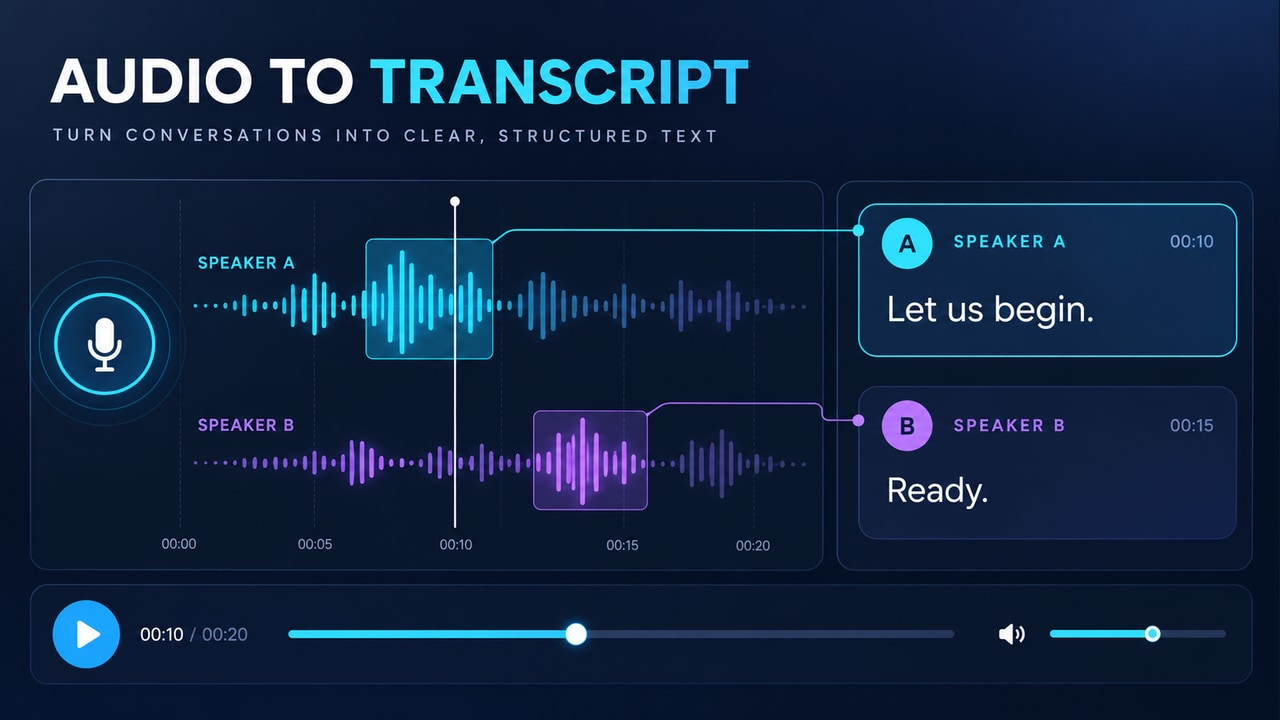
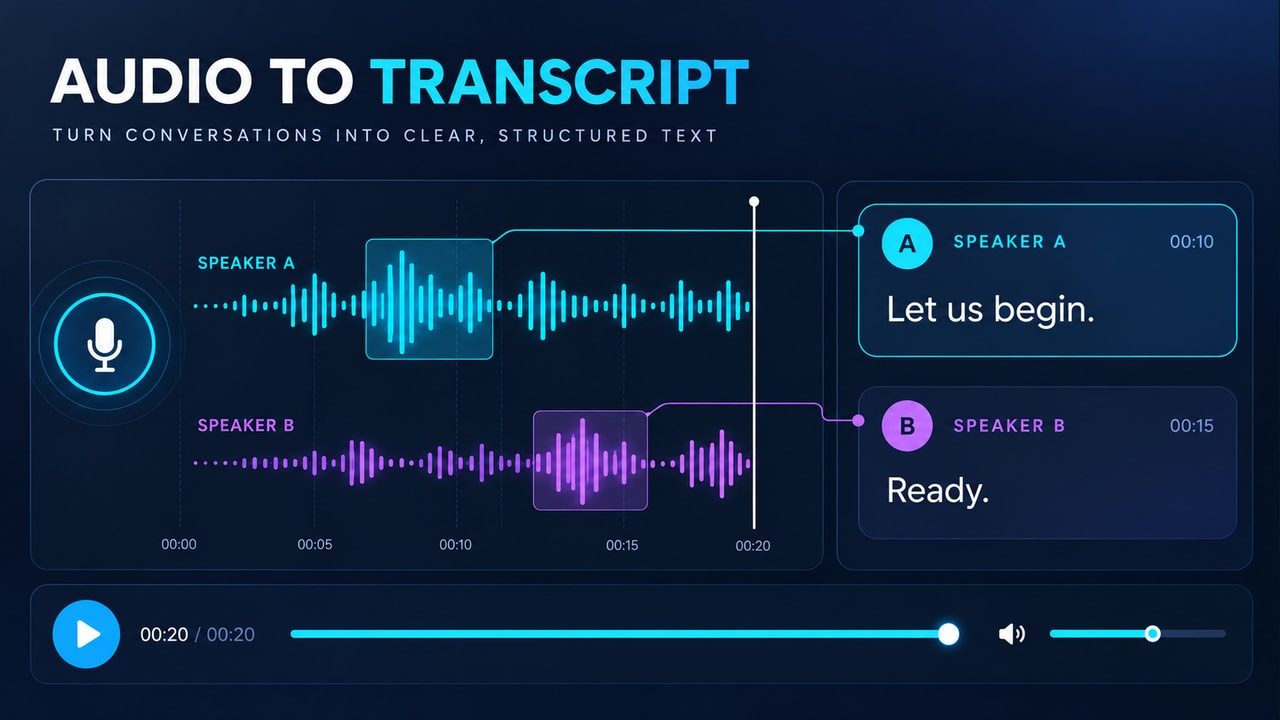
Complete transcription clip timeline and synchronize progress

diff --git a/creative/firefly-demo-pairs-v3/IMAGE_PROMPTS.md b/creative/firefly-demo-pairs-v3/IMAGE_PROMPTS.md
@@ -1,6 +1,6 @@
 # Procedencia y prompts de imagen
 
-Herramienta: image_gen integrada, en modo edición con referencia. Se generaron 13 estados iniciales y dos finales nuevos: sonrisa e identidad con landmarks internos; los otros 11 finales reutilizan los visuales v2 existentes. Los archivos se exportan a 1280×720 sin recorte. No son capturas reales del producto ni evidencia de resultados comerciales.
+Herramienta: image_gen integrada, en modo edición con referencia. Se generaron 13 estados iniciales y tres finales nuevos: sonrisa, identidad con landmarks internos y transcripción completada; los otros 10 finales reutilizan los visuales v2 existentes. Los archivos se exportan a 1280×720 sin recorte. No son capturas reales del producto ni evidencia de resultados comerciales.
 
 
 ## sitechatbot — START
@@ -39,7 +39,7 @@ Use case: precise-object-edit. Edit target: the supplied existing final frame of
 END: reutiliza el final v2 sin regenerarlo; su procedencia original figura en manifest.json.
 
 
-## speech — START
+## speech — START histórico v3 (sustituido por revisión 3.2)
 
 Referencia: `speech/first-frame-v2.jpg` del kit anterior.
 
@@ -48,7 +48,7 @@ Use case: precise-object-edit. Edit target: the supplied existing final frame of
 ```
 
 
-END: reutiliza el final v2 sin regenerarlo; su procedencia original figura en manifest.json.
+START y END vigentes: ediciones 3.2 descritas al final de este documento.
 
 
 ## langchain — START
@@ -168,4 +168,16 @@ Sustituye el final v2 reutilizado por esta edición nueva con landmarks internos
 
 ```text
 Use case: precise-object-edit, identity-preserve. Edit target: supplied FACE COMPARISON final-frame image. Replace the inadequate contour-only facial annotations with anatomically placed INTERNAL facial landmarks and restrained geometric distance guides on BOTH faces. Preserve the exact same fictional adult man's identity, facial expression, skin texture, hair, eyes, clothing, portrait sizes/positions, card borders, navy background, full 16:9 composition, heading FACE COMPARISON, center check/MATCH, bottom SELFIE and REFERENCE labels and all other interface artwork. Overlay only fine cyan points and thin connecting segments attached accurately to: inner/outer eye corners, eyelid curves, eyebrows, nose bridge, nose tip and nostril edges, lip outline/mouth corners, cheek anchors and jaw/chin. Include a small coherent triangular landmark network across the INSIDE of each face; do not merely outline the face or draw random triangles on the hair/background. Make the eyes, nose and mouth clearly readable beneath the delicate graphics. Add three thin warm-amber measurement guides with tiny endpoint ticks on each face: between eye-center anchor points, nose tip down to the upper-lip center, and across the mouth corners. These guides must sit directly on the correct anatomy and correspond across both portraits. No numerical distances, millimeters, percentages, confidence values, extra letters or labels. Keep a very faint facial boundary if needed but INTERNAL features and their relative geometry are the visual focus. Professional, precise and restrained: no laser light, heavy glow, scan band, obscuring thick lines, moving subjects or extra panels. The photo and UI must remain unchanged; only the facial overlay is replaced. One single full-frame END image, no diptych.
+```
+
+## speech — START revisión 3.2
+
+```text
+Use case: precise-object-edit. Edit target: supplied AUDIO TO TRANSCRIPT START-frame interface. Preserve exact 16:9 full composition, navy background, title/subtitle, microphone, panels, SPEAKER A/B labels, empty transcript card bodies and bottom controls. Correct it to a TRUE ZERO state. Bottom elapsed/total text must read EXACTLY '00:00 / 00:20', same font and location. Bottom seek bar from its left origin to its right endpoint is completely unfilled/subdued; white knob at the LEFTMOST start. Add a fine white vertical playback cursor aligned EXACTLY with the chart's existing 00:00 tick, spanning both waveform lanes. It must NOT be at 00:10. Replace the two source waveform PEAKS with thin subdued horizontal cyan and purple centerlines extending only from the 00:00 tick to the 00:20 tick; no sampled peaks have been processed yet. Keep speaker labels, axes, timeline tick labels 00:00 00:05 00:10 00:15 00:20, all panel geometry, microphone and typography unchanged. No selected-segment rectangles, transcript phrases, result connectors or utterance timestamps yet. Do not move or stretch any panel or change the volume control. One single full frame, no diptych. This begins an illustrative audio-processing progress sequence.
+```
+
+## speech — END revisión 3.2
+
+```text
+Use case: precise-object-edit. Edit target: supplied AUDIO TO TRANSCRIPT END-frame interface. Correct the playback/completion state while preserving the exact title/subtitle, all panels, microphone, speaker labels, transcript words 'Let us begin.' and 'Ready.', their valid UTTERANCE timestamps 00:10 and 00:15, all card positions, static selected segments and their connectors, and full 16:9 composition. Bottom elapsed/total timer MUST read EXACTLY '00:20 / 00:20', same location and font. Fill the ENTIRE existing bottom seek bar cyan from its original left origin to its original right endpoint, and move its white circular knob to that RIGHTMOST endpoint (not the volume slider). Move the fine WHITE vertical playback cursor and its small white top dot from the chart's 00:10 position to align EXACTLY above the existing 00:20 chart tick, spanning BOTH waveform lanes. Completely remove the old middle cursor at 00:10; there must be exactly one playback cursor. Keep axes/tick labels at the same coordinates. Make both cyan and purple waveform tracks fully processed: preserve the existing waveform structure/peaks before 00:20, with all completed bars clearly visible in each speaker's color, and no future/dim waveforms to the right of the 00:20 cursor. Cleanly remove any waveform dots or bars beyond that 00:20 chart tick, restoring navy background there. Do not slide the waveform or utterance selection boxes along with the cursor: those segments stay attached to the original 10s/15s source ranges. The final state must unmistakably show finished audio and completed attributed transcript. Bottom play icon may remain the same for replay. Do not add numbers, badges or new transcript words. One single full-frame END image, not a diptych.
 ```

diff --git a/creative/firefly-demo-pairs-v3/PROMPTS.md b/creative/firefly-demo-pairs-v3/PROMPTS.md
@@ -38,12 +38,18 @@ Create an eight-second, silent, single-shot conceptual demo using BOTH supplied 
 
 ## speech — Actas de reuniones y llamadas automáticas
 
-Audio disponible, transcripción vacía → Texto atribuido a cada hablante.
+00:00 con progreso vacío → 00:20 con audio y transcripción completados.
 
 ```text
-Create an eight-second, silent, single-shot conceptual demo using BOTH supplied reference frames: START is the exact initial state and END is the target completed state. Use the same locked 16:9 composition throughout. All explanation, UI graphics, tracking, labels and results belong inside the MP4; no external webpage overlay will be added. Animate the specific state changes below. Do not simply crossfade the whole first picture into the last picture. Keep the unchanged background, panel borders, typography, icons, source data and subjects stable; only the specified UI outputs or expression may change. No camera pan, zoom, crop, cut, new text, extra objects, invented results or ambient effects. Where words appear, reveal complete prewritten stable blocks from END rather than inventing or morphing letters. Reach the completed state by six seconds and hold it still through eight seconds.
+Create an eight-second silent conceptual audio-to-transcript demonstration using BOTH supplied frames: START is the true zero state; END is fully completed playback. Same locked full 16:9 interface, no crop, cuts, zoom, panel movement or whole-image crossfade. All graphics, waveforms, text and progress are rendered inside the video; no external website overlay. This is an ACCELERATED illustrative preview of a twenty-second sample recording, not twenty seconds of real-time playback and not a measured transcription-speed claim.
 
-0-1s: establish the START frame with two waveforms and empty speaker cards. 1-3s: draw a transparent selection rectangle over the existing cyan speaker-A segment, without changing waveform geometry; introduce "Let us begin." into the SPEAKER A card as one complete stable phrase, along with the END-frame sample timestamp. 3-5s: similarly reveal the existing purple selected segment, its connector, and "Ready." in SPEAKER B with its corresponding timestamp. 5-6s: settle the remaining playhead and controls at the exact END-frame state. 6-8s: hold the END frame. These are sample-recording timeline labels, not elapsed time of this eight-second clip; do not animate or rewrite the timestamp digits. The MP4 is silent and conceptually illustrates transcription, not audible speech.
+SYNCHRONIZATION CONTRACT: The single vertical chart cursor, bottom seek knob, cyan seek-bar fill, elapsed timer and processed-waveform region represent ONE shared source time. From video t=1 to t=6 seconds, advance source time uniformly from 00:00 to 00:20. Use the same normalized progress fraction for both controls even though their tracks have different widths. The vertical cursor is constrained between the chart's existing 00:00 and 00:20 ticks. The bottom knob is constrained between the original seek-track left and right endpoints. Never confuse the seek bar with the separate volume slider. No backwards jumps or resets.
+
+0-1s: hold START: exact bottom text 00:00 / 00:20, seek knob at left, no seek fill, one white vertical cursor on the chart's 00:00 tick, two quiet speaker-lane baselines and empty transcript bodies.
+1-6s: continuously advance cursor and seek knob LEFT TO RIGHT in sync. Fill the seek bar behind its knob. Update elapsed digits monotonically in whole source seconds from 00:00 through 00:20; total stays / 00:20. Keep all timeline axis labels fixed. As the cursor passes each location, construct the END frame's waveform there, growing individual speaker-colored bars out of their own lane centerlines. Only newly revealed bars next to the active cursor may flex subtly; previously processed bars settle into the END-frame recorded shape and remain stationary. Nothing appears ahead of the cursor. Preserve cyan speaker A / purple speaker B; no moving whole waveform, random reshaping of history or unrelated spectrum.
+At source time 00:10 (video t=3.5s), finish the existing cyan selected source region and reveal its fixed connector plus SPEAKER A phrase Let us begin. with its UTTERANCE timestamp 00:10. At source time 00:15 (video t=4.75s), reveal the corresponding purple selected region, fixed connector and SPEAKER B phrase Ready. with its UTTERANCE timestamp 00:15. Those two utterance timestamps remain 00:10 and 00:15; they are NOT the elapsed playback timer. Reveal each phrase as an intact readable block, no invented words.
+At video t=6s reach END exactly: bottom text 00:20 / 00:20, seek fill 100%, bottom knob at the far right of its track, single vertical white cursor aligned to the CHART 00:20 tick, both waveform lanes completed only up to that tick, both attributed transcript phrases visible. No waveform extends beyond source time 00:20. Remove the previous 00:10 playback cursor; exactly one cursor exists.
+6-8s: hold the completed END state completely still. Do not loop, continue the timer, reset to half progress, move the utterance selections with the cursor, alter transcript timestamps, add words or change title/axes/panel geometry. The clip remains silent. Reject the result if any timer, cursor, fill or waveform progress disagrees with the shared source time.
 ```
 
 

diff --git a/creative/firefly-demo-pairs-v3/README.md b/creative/firefly-demo-pairs-v3/README.md
@@ -1,6 +1,6 @@
-# Firefly — 13 parejas de frames v3.1
+# Firefly — 13 parejas de frames v3.2
 
-Este paquete sustituye el flujo de una sola imagen inicial por **13 parejas completas: 26 JPG y 13 prompts de transición**. Se generaron 13 inicios nuevos a partir de los visuales existentes y dos finales nuevos: sonrisa y landmarks internos de identidad. Los otros 11 finales reutilizan los visuales v2: no se afirma que los 26 sean generaciones nuevas.
+Este paquete sustituye el flujo de una sola imagen inicial por **13 parejas completas: 26 JPG y 13 prompts de transición**. Se generaron 13 inicios nuevos a partir de los visuales existentes y tres finales nuevos: sonrisa, landmarks internos de identidad y transcripción completada. Los otros 10 finales reutilizan los visuales v2: no se afirma que los 26 sean generaciones nuevas.
 
 Cada carpeta contiene **start.jpg**, **end.jpg**, **firefly-prompt.txt** y README.md. Los nombres y la estructura son iguales para todos los casos.
 
@@ -17,7 +17,7 @@ Adobe documenta First/Last para Veo 3.1 y especifica 16:9 y ocho segundos para r
 
 ## Qué debe animarse
 
-El chatbot pasa de escribir a mostrar respuesta/citas; identidad adquiere landmarks internos, malla y guías geométricas y muestra la comparación; RAG recupera fuentes y construye una respuesta citada; transcripción revela frases por hablante; herramientas producen un reporte; detección dibuja tres cajas y cuenta; el rostro pasa de neutro a sonrisa con seguimiento; factura completa campos; TTS genera una onda; voz crea una reserva; anomalías generan una revisión; pronóstico dibuja el futuro; imágenes completan variantes.
+El chatbot pasa de escribir a mostrar respuesta/citas; identidad adquiere landmarks internos, malla y guías geométricas y muestra la comparación; RAG recupera fuentes y construye una respuesta citada; transcripción construye las ondas y revela frases por hablante mientras timer, cursor y barra avanzan de 00:00 a 00:20; herramientas producen un reporte; detección dibuja tres cajas y cuenta; el rostro pasa de neutro a sonrisa con seguimiento; factura completa campos; TTS genera una onda; voz crea una reserva; anomalías generan una revisión; pronóstico dibuja el futuro; imágenes completan variantes.
 
 Las transiciones deben mostrar esas acciones, sin disolver la imagen completa. El fondo, textos ya visibles, geometría de paneles y datos fuente permanecen estables. Los conectores del chatbot no persiguen objetos y el cerebro no se transforma.
 

diff --git a/creative/firefly-demo-pairs-v3/speech/README.md b/creative/firefly-demo-pairs-v3/speech/README.md
@@ -1,8 +1,8 @@
 # Actas de reuniones y llamadas automáticas — pareja v3
 
-**Inicio:** Audio disponible, transcripción vacía.
+**Inicio:** 00:00 / 00:20, barra vacía, cursor en el tick inicial y ondas por procesar.
 
-**Final:** Texto atribuido a cada hablante.
+**Final:** 00:20 / 00:20, barra completa, cursor en 20 segundos, ondas procesadas y texto atribuido a cada hablante.
 
 ![Inicio](start.jpg)
 ![Final](end.jpg)
@@ -12,3 +12,11 @@ En Firefly: Frames → First → start.jpg; Last → end.jpg. Usa firefly-prompt
 La transición tiene acciones nuevas y un resultado visible; no debe ser una disolución de toda la imagen ni limitarse a resaltes. Sigue los tiempos y restricciones del prompt. Revisa identidad/geometría, texto, fuentes, valores y sincronización durante todo el video. Los frames orientan los extremos, pero no garantizan una interpolación correcta.
 
 **Estado:** frames preparados; video Firefly pendiente de generación y revisión temporal.
+
+## Revisión 3.2 — reproducción completa y sincronizada
+
+Se corrigieron ambos frames. El cursor vertical, el timer inferior, la barra y el área procesada de ondas comparten el mismo avance. Las ondas se construyen al paso del cursor y los segmentos terminados se estabilizan. A los seis segundos del clip se llega al final de la muestra; los últimos dos segundos muestran ese estado terminado.
+
+El audio de ejemplo dura 20 segundos, representados de forma acelerada en ocho segundos de video conceptual. No se afirma una velocidad real de procesamiento. Las marcas 00:10 y 00:15 de las frases son tiempos de intervención de cada hablante y permanecen intactas; solo el timer de reproducción termina en 00:20 / 00:20.
+
+Rechazar el video si aparece un cursor extra en 00:10, si la barra queda a mitad, si hay audio visual después de 00:20, si se deforman los dígitos o si ondas/barra/cursor muestran avances diferentes. El video nuevo todavía debe generarse y revisarse.

diff --git a/docs/FIREFLY_CLIPS.md b/docs/FIREFLY_CLIPS.md
@@ -1,6 +1,6 @@
 # Firefly clips — parejas de inicio y fin v3
 
-**Guía vigente:** [13 parejas v3](../creative/firefly-demo-pairs-v3/README.md) y [13 prompts de transición](../creative/firefly-demo-pairs-v3/PROMPTS.md). Cada caso tiene start.jpg para First y end.jpg para Last, 1280×720, más un prompt con acciones hasta el resultado y dos segundos de pausa final. Revisión 3.1: se generaron 13 inicios y dos finales nuevos (sonrisa y landmarks internos de identidad); los otros 11 finales reutilizan v2. Las 26 imágenes fueron revisadas como parejas. No son 26 generaciones nuevas.
+**Guía vigente:** [13 parejas v3](../creative/firefly-demo-pairs-v3/README.md) y [13 prompts de transición](../creative/firefly-demo-pairs-v3/PROMPTS.md). Cada caso tiene start.jpg para First y end.jpg para Last, 1280×720, más un prompt con acciones hasta el resultado y dos segundos de pausa final. Revisión 3.2: 13 inicios y tres finales nuevos (sonrisa, landmarks internos de identidad y transcripción terminada); los otros 10 finales reutilizan v2. Transcripción comienza en 00:00 y termina en 00:20 con ondas, cursor y barra sincronizados. Las 26 imágenes fueron revisadas como parejas. No son 26 generaciones nuevas.
 
 El flujo anterior de dejar Last vacío y empezar mostrando todos los resultados queda sustituido. El chatbot ahora tiene puntos de escritura, entrada de respuesta y aparición de citas; los demás casos también cambian de estado, en vez de limitarse a resaltes. Mantener 16:9, ocho segundos y Audio off. Video Firefly, revisión temporal e integración en la web siguen pendientes.
 

diff --git a/docs/PENDING_WORK.md b/docs/PENDING_WORK.md
@@ -14,7 +14,7 @@
 
 - Estado: **13 parejas completas (26 JPG) y 13 prompts** en `creative/firefly-demo-pairs-v3/`; sustituyen las instrucciones de una sola imagen v2/v2.1.
 - Cada carpeta contiene `start.jpg`, `end.jpg` y `firefly-prompt.txt`: subir a Frames → First/Last, 16:9, 720p, ocho segundos, 24 FPS y Audio off.
-- Revisión 3.1: 13 inicios nuevos y dos finales nuevos (sonrisa e identidad con landmarks internos); 11 finales reutilizan los visuales existentes. Imágenes revisadas; interpolación/video todavía sin verificar.
+- Revisión 3.2: 13 inicios y tres finales nuevos (sonrisa, identidad con landmarks internos y transcripción completada); 10 finales reutilizan los visuales existentes. Transcripción usa 00:00 → 00:20 con ondas/cursor/barra sincronizados. Imágenes revisadas; interpolación/video todavía sin verificar.
 - Generar primero un piloto; revisar texto, identidad, objetos, cajas/malla, campos, conteos, citas y composición durante todo el clip. No aceptar una simple disolución ni solo resaltes. Explicación completa dentro del MP4.
 - Codificar sin recorte con el encoder existente: 640×360, ocho segundos, sin audio, faststart, máximo 750 KB. El pase técnico no certifica calidad visual.
 - Integrar solo archivos aprobados: sin src/source inicial, hover/touch solicitado, un clip activo, pausa fuera de pantalla, reduced motion/data saver y poster de respaldo. Usar contain y desactivar overlays explicativos CSS en modo video.
